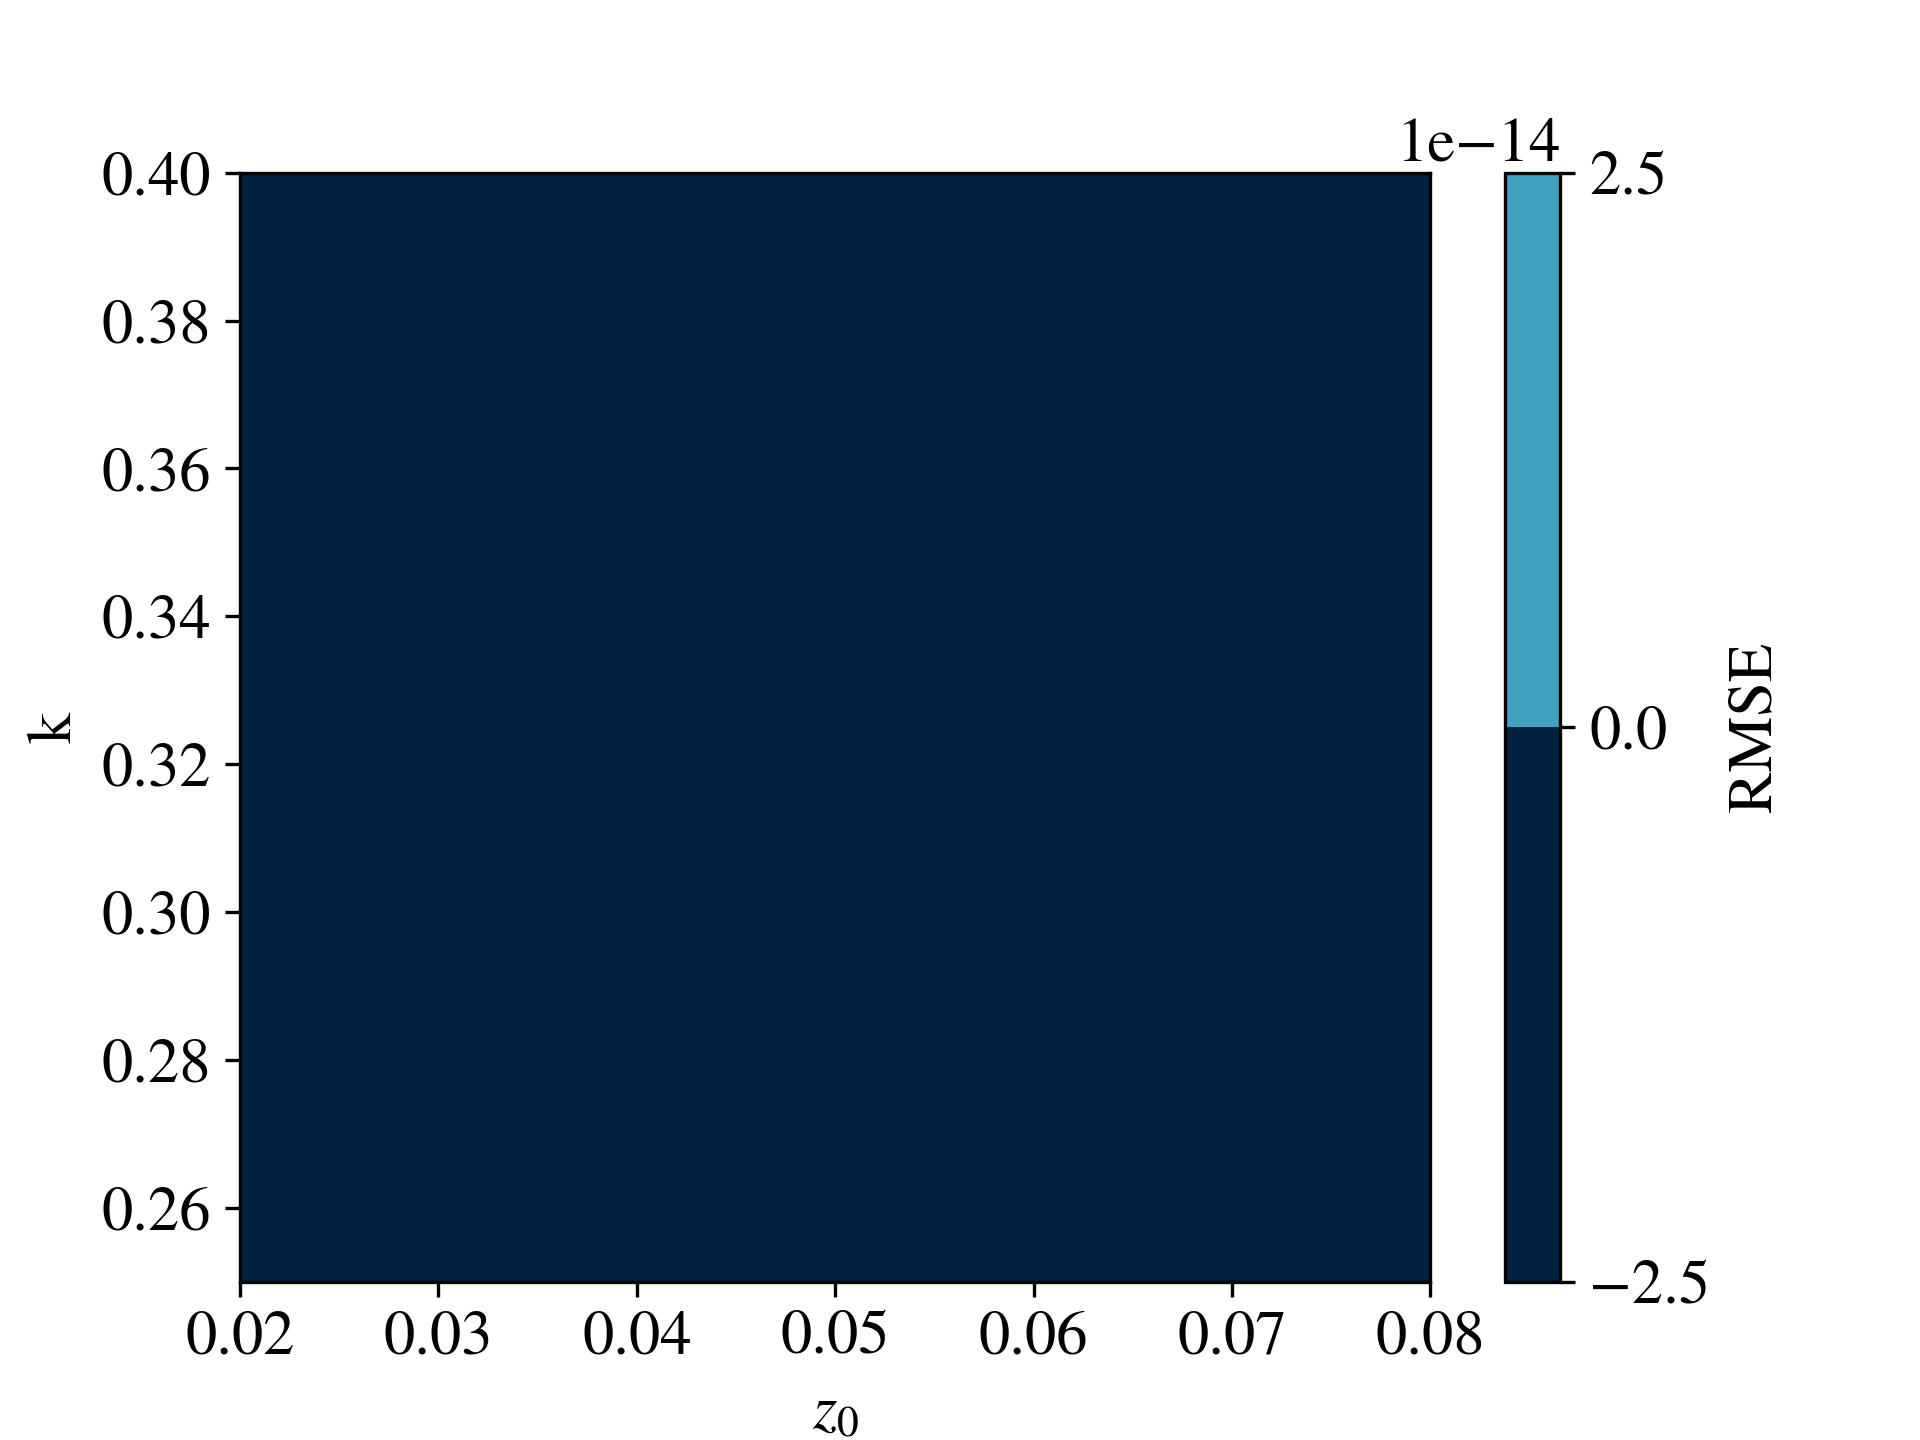
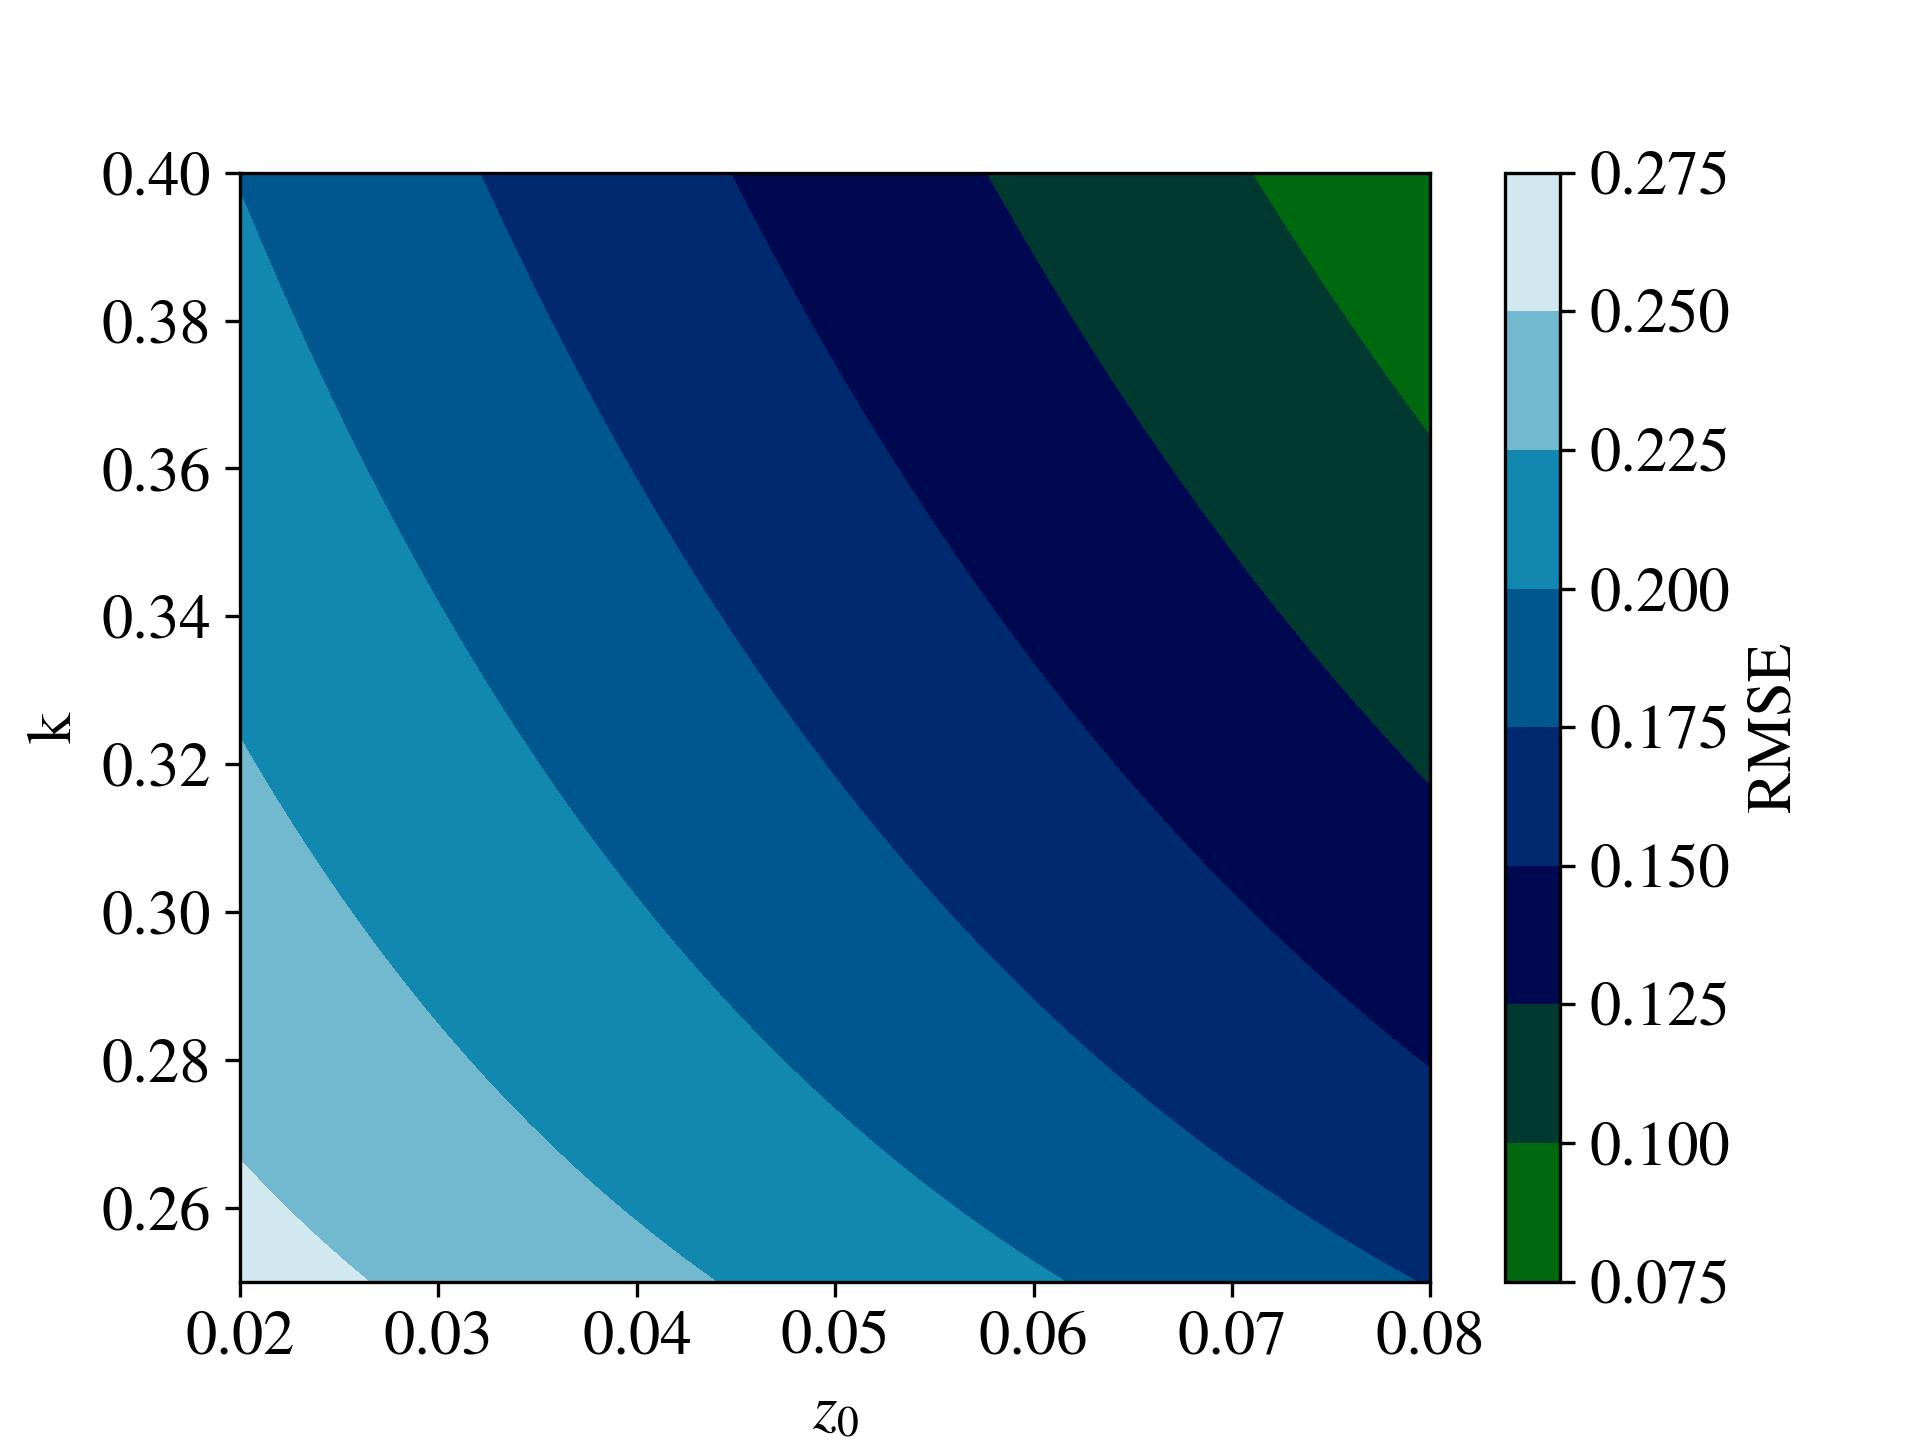
Localitzat i corregit el error en la representació del RMSE de la u estrella

diff --git a/P2_ControlSensibilitat.py b/P2_ControlSensibilitat.py
@@ -74,7 +74,7 @@ for i, zi in enumerate(z0): # files
                                 data['T'], data['low_T'],
                                 q1, q2, k=kj, z0=zi)
         
-        err_H[i, j] = fun.fRMSE(ustar, ustar_rea)
+        err_u[i, j] = fun.fRMSE(ustar, ustar_rea)
         err_Le[i, j] = fun.fRMSE(Le_sem, Le)
         err_H[i, j] = fun.fRMSE(H_sem, H)
 
@@ -98,7 +98,7 @@ for i, zi in enumerate(z0): # files
                                 data['T'], data['low_T'],
                                 q1, q2, z0=zi, tht0=tj)
         
-        err_H[i, j] = fun.fRMSE(ustar, ustar_rea)
+        err_u[i, j] = fun.fRMSE(ustar, ustar_rea)
         err_Le[i, j] = fun.fRMSE(Le_sem, Le)
         err_H[i, j] = fun.fRMSE(H_sem, H)
 
@@ -122,7 +122,7 @@ for i, ti in enumerate(tht0): # files
                                 data['T'], data['low_T'],
                                 q1, q2, k=kj, tht0=ti)
         
-        err_H[i, j] = fun.fRMSE(ustar, ustar_rea)
+        err_u[i, j] = fun.fRMSE(ustar, ustar_rea)
         err_Le[i, j] = fun.fRMSE(Le_sem, Le)
         err_H[i, j] = fun.fRMSE(H_sem, H)
 
